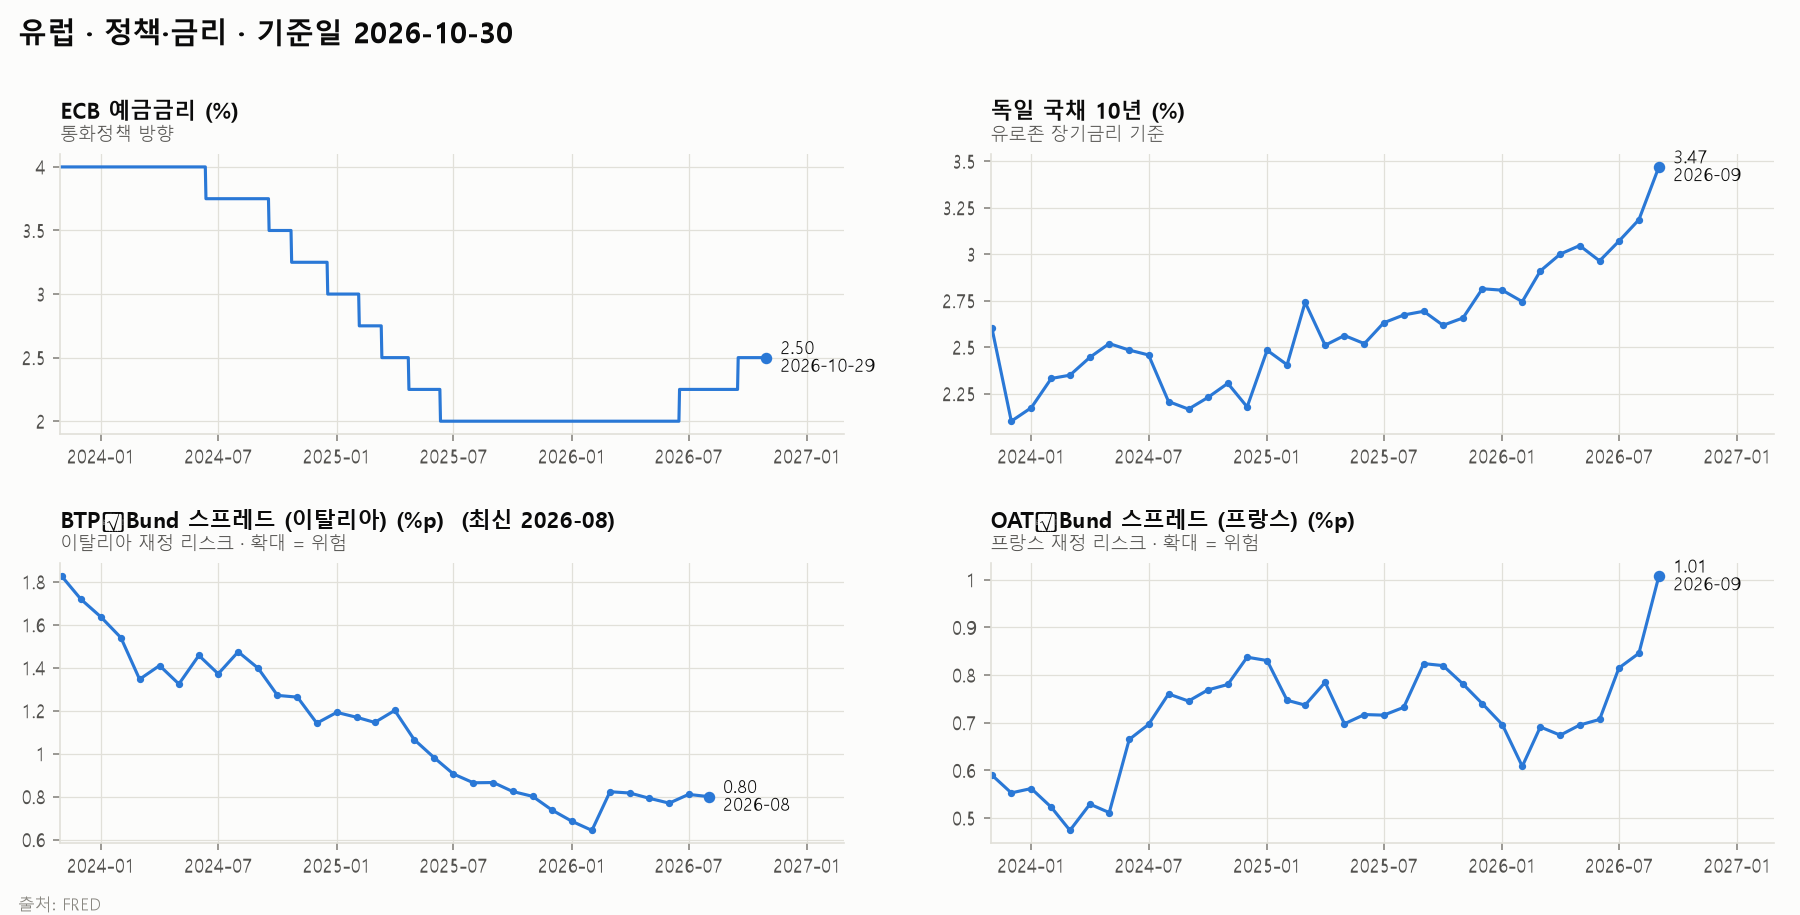
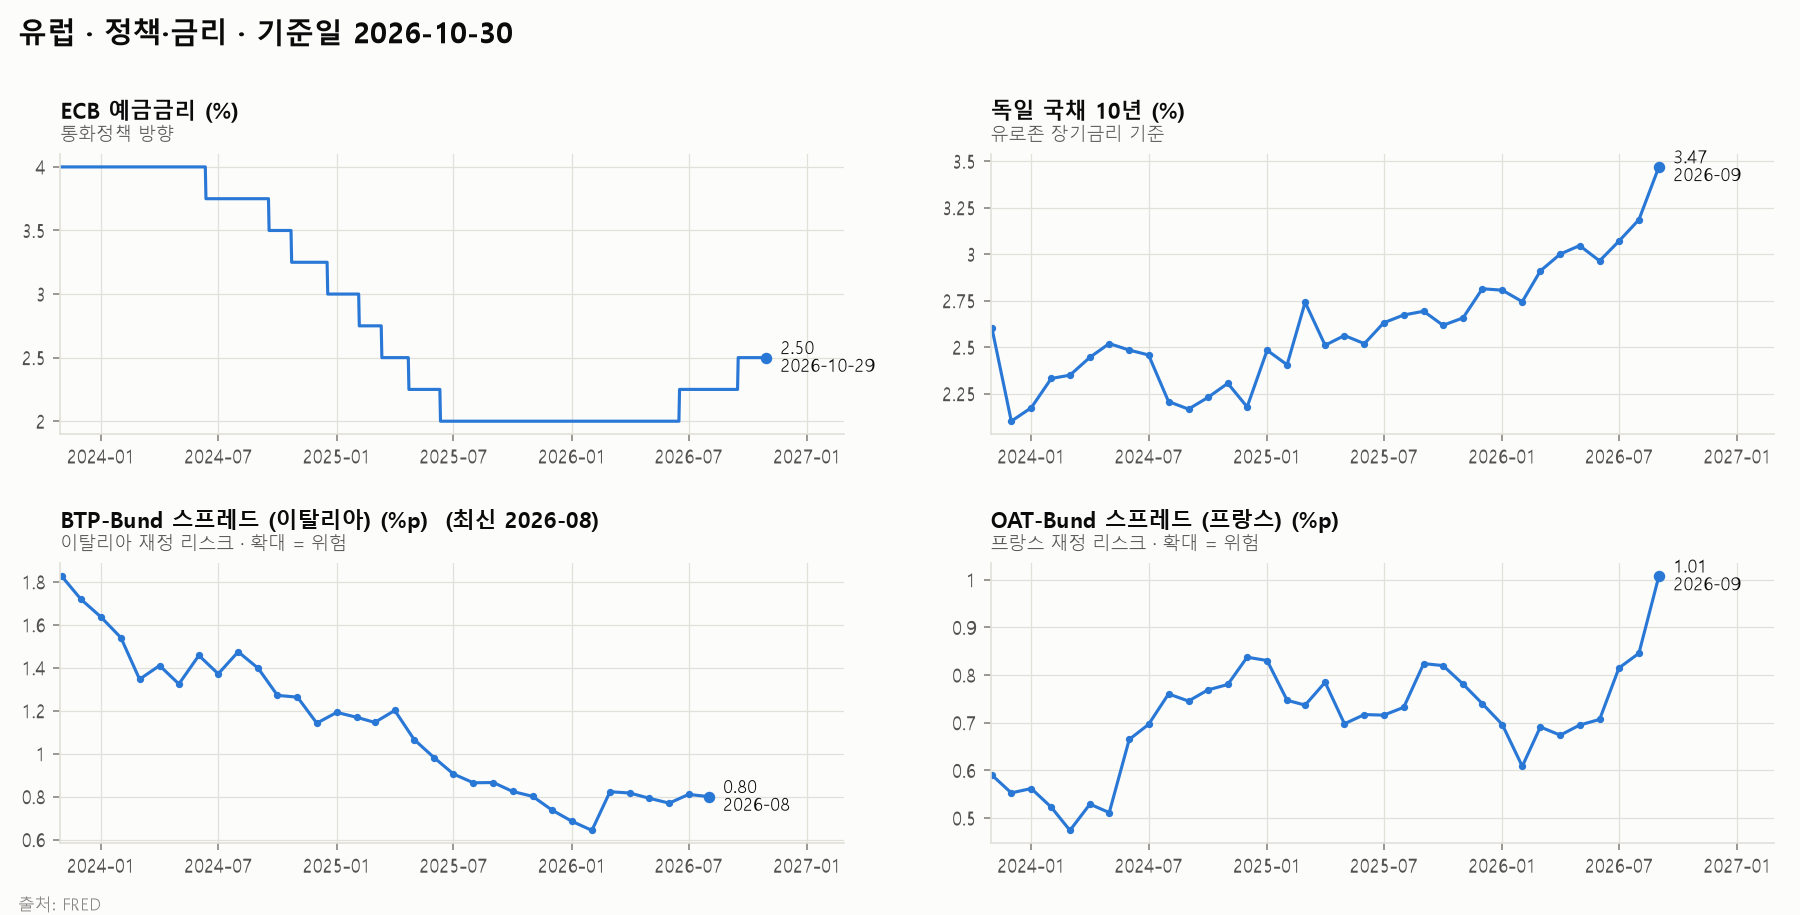
Connect ECOS, KRX and e-Stat sources and fill Korea/Japan indicators
- sources.py: read keys from .env; add ECOS, KRX (pykrx login) and e-Stat fetchers without exposing keys in errors
- indicators.md: Korea rates, CPI, exports, leading index, PBR, foreign flows and current account from ECOS/KRX; Japan core and Tokyo CPI from e-Stat; retire kr_3m and kr_10y3m
- build.py: keep correction sections on rebuild, treat same-day values as unconfirmed for all sources, fix minus glyph in chart titles
- reports 2026-10-30: rebuilt Korea and Japan at the original asof with correction notes
- README: add e-Stat credit

Changed region(s): [[0.0622, 0.5508, 0.3422, 0.5814], [0.56, 0.5508, 0.7467, 0.5814]]

diff --git a/scripts/sources.py b/scripts/sources.py
@@ -2,9 +2,12 @@
 
 지표는 날짜 인덱스의 Series, 지수 일봉은 open/high/low/close/volume 열의 DataFrame으로 돌려준다.
 """
+import contextlib
 import io
+import os
 import re
 import time
+from pathlib import Path
 
 import numpy as np
 import pandas as pd
@@ -12,6 +15,26 @@ import requests
 
 HEADERS = {"User-Agent": "Mozilla/5.0"}
 TIMEOUT = 30
+ROOT = Path(__file__).resolve().parent.parent
+
+
+def _load_env(path=ROOT / ".env"):
+    """.env의 KEY=VALUE를 환경 변수로 읽는다. pykrx는 import할 때 KRX_ID/KRX_PW를 읽으므로 먼저 실행한다."""
+    if path.exists():
+        for line in path.read_text(encoding="utf-8").splitlines():
+            key, sep, value = line.partition("=")
+            if sep and key.strip() and not key.strip().startswith("#"):
+                os.environ.setdefault(key.strip(), value.strip().strip("'\""))
+
+
+_load_env()
+
+
+def _secret(name):
+    value = os.environ.get(name)
+    if not value:
+        raise ValueError(f".env에 {name}가 없음")
+    return value
 
 
 def _get(url, headers=HEADERS, tries=3, **kw):
@@ -124,6 +147,62 @@ def hkma_hibor3m(start):
     return s[s.index >= start]
 
 
+# --- 키·계정이 필요한 출처 (.env) --------------------------------------------
+# 요청 URL에 키가 들어가므로, 요청 오류는 URL 없이 다시 올린다.
+
+def ecos(spec, start):
+    """한국은행 ECOS. spec: 통계표/주기/항목, 예: 817Y002/D/010200000"""
+    stat, cycle, item = spec.split("/")
+    fmt = {"D": "%Y%m%d", "M": "%Y%m"}[cycle]
+    end = pd.Timestamp.today()
+    url = (f"https://ecos.bok.or.kr/api/StatisticSearch/{_secret('ECOS_API_KEY')}/json/kr/1/100000/"
+           f"{stat}/{cycle}/{start:{fmt}}/{end:{fmt}}/{item}")
+    try:
+        data = _get(url, headers=None).json()
+    except requests.RequestException as e:
+        raise RuntimeError(f"ECOS 요청 실패 ({type(e).__name__})") from None
+    rows = data.get("StatisticSearch", {}).get("row")
+    if not rows:
+        raise ValueError(f"ECOS 응답 없음: {data.get('RESULT', {}).get('MESSAGE', '')}")
+    return _series([pd.to_datetime(r["TIME"], format=fmt) for r in rows], [r["DATA_VALUE"] for r in rows])
+
+
+def krx(name, start):
+    """KRX 정보데이터시스템 (pykrx, 회원 계정 로그인). name: kospi_pbr | kospi_foreign"""
+    _secret("KRX_ID"), _secret("KRX_PW")
+    end = pd.Timestamp.today()
+    with contextlib.redirect_stdout(io.StringIO()):  # pykrx는 로그인할 때 아이디를 출력한다
+        from pykrx import stock
+
+        if name == "kospi_pbr":
+            s = stock.get_index_fundamental(f"{start:%Y%m%d}", f"{end:%Y%m%d}", "1001")["PBR"]
+            s = s[s > 0]
+        elif name == "kospi_foreign":
+            s = stock.get_market_trading_value_by_date(f"{start:%Y%m%d}", f"{end:%Y%m%d}", "KOSPI")["외국인합계"]
+            s = s / 1e12  # 원 → 조 원
+        else:
+            raise ValueError(f"알 수 없는 KRX 항목: {name}")
+    return _series(s.index, s.to_numpy())
+
+
+def estat(spec, start):
+    """일본 e-Stat. spec: 통계표ID/품목(cat01)/지역(area)/표장항목(tab), 예: 0004052037/0161/00000/3"""
+    sid, cat01, area, tab = spec.split("/")
+    params = {"appId": _secret("ESTAT_APP_ID"), "statsDataId": sid, "cdCat01": cat01, "cdArea": area, "cdTab": tab}
+    try:
+        data = _get("https://api.e-stat.go.jp/rest/3.0/app/json/getStatsData", headers=None, params=params).json()
+    except requests.RequestException as e:
+        raise RuntimeError(f"e-Stat 요청 실패 ({type(e).__name__})") from None
+    body = data["GET_STATS_DATA"]
+    values = body.get("STATISTICAL_DATA", {}).get("DATA_INF", {}).get("VALUE", [])
+    if not values:
+        raise ValueError(f"e-Stat 응답 없음: {body['RESULT']['ERROR_MSG']}")
+    # 시간 코드 '2026001010' = 2026년 10월. 월 자리가 '00'이면 연간 값이라 뺀다
+    rows = [(v["@time"], v["$"]) for v in values if v["@time"][6:8] != "00"]
+    s = _series([pd.Timestamp(int(t[:4]), int(t[6:8]), 1) for t, _ in rows], [x for _, x in rows])
+    return s[s.index >= start]
+
+
 # --- AKShare (중국·홍콩) ----------------------------------------------------
 
 def _ak():
@@ -215,7 +294,7 @@ AK = {
 
 # --- 진입점 ----------------------------------------------------------------
 
-API_KINDS = ("fred", "yf", "oecd-cli", "oecd-cpi", "ecb", "mof-jp", "hkma", "ak")
+API_KINDS = ("fred", "yf", "oecd-cli", "oecd-cpi", "ecb", "mof-jp", "hkma", "ak", "ecos", "krx", "estat")
 
 
 def fetch(source, start, ohlcv=False):
@@ -240,4 +319,10 @@ def fetch(source, start, ohlcv=False):
         return mof_jp(arg, start)
     if kind == "hkma" and arg == "hibor3m":
         return hkma_hibor3m(start)
+    if kind == "ecos":
+        return ecos(arg, start)
+    if kind == "krx":
+        return krx(arg, start)
+    if kind == "estat":
+        return estat(arg, start)
     raise ValueError(f"알 수 없는 출처: {source}")

diff --git a/scripts/build.py b/scripts/build.py
@@ -34,7 +34,8 @@ LINE, UP, DOWN, MA5, MA20 = "#2a78d6", "#e34948", "#2a78d6", "#eda100", "#52514e
 
 STALE_DAYS = {"일": 7, "주": 21, "월": 75, "분기": 230, "연": 450}
 SOURCE_NAMES = {"fred": "FRED", "yf": "Yahoo Finance", "oecd-cli": "OECD", "oecd-cpi": "OECD", "ecb": "ECB",
-                "mof-jp": "일본 재무성", "hkma": "HKMA", "ak": "AKShare", "manual": "수동 입력"}
+                "mof-jp": "일본 재무성", "hkma": "HKMA", "ak": "AKShare", "ecos": "한국은행 ECOS", "krx": "KRX",
+                "estat": "e-Stat", "manual": "수동 입력"}
 
 plt.rcParams.update({
     "font.family": "Malgun Gothic", "axes.unicode_minus": False, "font.size": 9,
@@ -150,8 +151,8 @@ class Store:
         df = df[df.index <= self.pub]
         if close:
             df = df[df.index + close_offset(close) <= self.asof]
-        elif source.startswith("yf:"):
-            # 환율·선물 등은 하루 종일 거래되므로 발행일 당일 봉은 미확정으로 본다
+        else:
+            # 지표는 발행일 당일 날짜의 값을 미확정으로 본다 (환율·선물 장중 값, 장 마감 후 확정되는 금리 등)
             df = df[df.index < self.asof.normalize()]
         return df if ohlcv else df.iloc[:, 0].dropna()
 
@@ -257,8 +258,9 @@ class Store:
 # --- 차트 -----------------------------------------------------------------
 
 def _panel_header(ax, title, desc):
-    ax.set_title(title, loc="left", fontsize=10.5, fontweight="bold", color=INK, pad=17)
-    ax.text(0, 1.035, desc, transform=ax.transAxes, fontsize=8.5, color=INK2, va="bottom")
+    # 맑은 고딕 굵은체에는 수학 기호 '−'(U+2212) 글리프가 없어 일반 하이픈으로 바꾼다
+    ax.set_title(title.replace("−", "-"), loc="left", fontsize=10.5, fontweight="bold", color=INK, pad=17)
+    ax.text(0, 1.035, desc.replace("−", "-"), transform=ax.transAxes, fontsize=8.5, color=INK2, va="bottom")
 
 
 def _date_axis(ax, start, end):
@@ -438,6 +440,16 @@ def preserved_blocks(path):
     return blocks
 
 
+def correction_section(path):
+    """발행 후 덧붙인 '## 정정' 섹션. 다시 만들어도 그대로 붙인다."""
+    if path.exists():
+        text = path.read_text(encoding="utf-8")
+        i = text.find("\n## 정정\n")
+        if i >= 0:
+            return text[i:].strip("\n")
+    return None
+
+
 def previous_report(market, pub):
     found = []
     for p in REPORTS.glob(f"*/*/{market.order}-{market.code}.md"):
@@ -456,6 +468,7 @@ def build_market(store, market, pub):
     charts.mkdir(parents=True, exist_ok=True)
     path = out / f"{market.order}-{market.code}.md"
     blocks = preserved_blocks(path)
+    correction = correction_section(path)
     prev = previous_report(market, pub)
     period_start = prev[0] + pd.Timedelta(days=1) if prev else pub - pd.DateOffset(months=1)
     prev_rel = prev[1].relative_to(spec.ROOT).as_posix() if prev else "none"
@@ -498,6 +511,10 @@ def build_market(store, market, pub):
         lines.append("")
         if memo:
             lines += ["데이터 메모:", ""] + [f"- {m}" for m in memo] + [""]
+    if correction:
+        while lines and lines[-1] == "":
+            lines.pop()
+        lines += ["", correction]
     path.write_text("\n".join(lines).rstrip() + "\n", encoding="utf-8")
     return path, all_memo
 

diff --git a/reports/2026/2026-10-30/02-kr.md b/reports/2026/2026-10-30/02-kr.md
@@ -34,7 +34,7 @@ prev: none
 1. **[환율·수급] 10월 중순 외국인 대량 매도** — 10월 13일 코스피는 5.46% 내린 6,035.35에 마감했고 외국인은 4조5,128억 원을 순매도했다. SK하이닉스(−10.09%)와 삼성전자(−7.39%)가 급락했으며, 기사는 메모리 경쟁 심화 우려와 삼성전자 자사주 매입 종료를 원인으로 꼽았다 ([서울신문](https://www.seoul.co.kr/news/economy/securities/2026/10/13/20261013500225)). 해석: 반도체 이익 정점 논란 속에서 외국인 매도가 지수 하락을 주도했다.
 2. **[이익·밸류] SK하이닉스 3분기 실적과 주주환원** — SK하이닉스는 3분기 영업이익 83조3,338억 원을 발표하고 약 100조 원 규모의 주주환원 계획을 밝혔다. 10월 28일 코스피는 6.63% 오른 6,012.44로 10거래일 만에 6,000선을 되찾았고 외국인은 8,228억 원을 순매수했다 ([파이낸셜뉴스](https://www.fnnews.com/news/202610290701410620)). 해석: 실적이 '메모리 이익 정점론'을 일부 반박하면서 외국인 매도가 멈췄다.
 3. **[기타] 발행 시점 장중 급락** — 10월 30일 오전 10시 4분 코스피 시장에 매도 사이드카가 발동됐고, 10시 13분 기준 코스피는 5.01% 내린 5,639.95였다. 전날 알파벳이 잉여현금흐름 악화로 12.6% 떨어지는 등 미국 기술주가 급락한 영향이며, 삼성전자는 3분기 영업이익 107조4,405억 원 발표에도 주주환원 실망으로 전날 4.13% 내렸다 ([뉴스핌](https://www.newspim.com/news/view/20261030000389)). 해석: 미국 AI 투자 수익성 우려가 반도체 비중이 큰 한국 증시에 가장 크게 전이되고 있다. 이 하락은 지수 현황 표(10/29 종가)에 반영되지 않았다.
-4. **[경기] 수출 호조와 원화 강세** — OECD 집계 한국 수출액(원화 기준)은 8월 전년비 +69.5%였고, 원/달러 환율은 1,340원(10/29)으로 3개월 전 1,453원보다 크게 낮아졌다 (FRED·Yahoo Finance, 2.1·2.6절). 해석: 수출이 이익 기반을 받치고 원화 강세는 외국인 환차익 측면에서 우호적이지만, 이번 달 주가는 이런 기초 여건보다 AI 업황 기대 변화에 더 크게 흔들렸다.
+4. **[경기] 수출 호조와 원화 강세** — 관세청 통관 기준 수출액(달러)은 8월 전년비 +68.7%였고, 원/달러 환율은 1,340원(10/29)으로 3개월 전 1,453원보다 크게 낮아졌다 (한국은행 ECOS·Yahoo Finance, 2.1·2.6절). 해석: 수출이 이익 기반을 받치고 원화 강세는 외국인 환차익 측면에서 우호적이지만, 이번 달 주가는 이런 기초 여건보다 AI 업황 기대 변화에 더 크게 흔들렸다.
 <!-- factors:end -->
 
 ## 2. 지표 (최근 3년)
@@ -45,15 +45,16 @@ prev: none
 
 | 지표 | 최신값 | 기준 시점 | 3개월 전 | 1년 전 |
 |---|---|---|---|---|
-| 수출액 증가율 (%, 전년비) | 69.54 | 2026-08 | 62.85 | 5.16 |
+| 수출액 증가율 (%, 전년비) | 68.70 | 2026-08 | 52.90 | 1.07 |
 | 반도체 수출 증가율 (%, 전년비) | — | — | — | — |
-| OECD 경기선행지수 (한국) (pt) | 102.5 | 2026-09 | 102.6 | 99.66 |
+| 선행지수 순환변동치 (pt) | 104.2 | 2026-08 | 102.9 | 99.80 |
 | DRAM 고정거래가격 (PC용 범용) (달러) | — | — | — | — |
 
 데이터 메모:
 
 - 수출액 증가율: 최신 데이터가 2026-08로 지연
 - 반도체 수출 증가율: 데이터 없음 (수동 입력 전)
+- 선행지수 순환변동치: 최신 데이터가 2026-08로 지연
 - DRAM 고정거래가격 (PC용 범용): 데이터 없음 (수동 입력 전)
 
 ### 2.2 물가
@@ -63,7 +64,7 @@ prev: none
 | 지표 | 최신값 | 기준 시점 | 3개월 전 | 1년 전 |
 |---|---|---|---|---|
 | 소비자물가 (%, 전년비) | 2.88 | 2026-09 | 3.16 | 2.10 |
-| 근원물가 (식료품·에너지 제외) (%, 전년비) | 2.80 | 2026-09 | 2.48 | 1.96 |
+| 근원물가 (농산물·석유류 제외) (%, 전년비) | 2.73 | 2026-09 | 2.44 | 2.38 |
 
 ### 2.3 정책·금리
 
@@ -71,14 +72,10 @@ prev: none
 
 | 지표 | 최신값 | 기준 시점 | 3개월 전 | 1년 전 |
 |---|---|---|---|---|
-| 한은 기준금리 (%) | — | — | — | — |
-| 단기금리 (3개월) (%) | 3.17 | 2026-09 | 2.91 | 2.56 |
-| 국고채 10년 (%) | 4.45 | 2026-09 | 4.18 | 2.85 |
-| 장단기 금리차 (10Y−3M) (%p) | 1.28 | 2026-09 | 1.27 | 0.29 |
-
-데이터 메모:
-
-- 한은 기준금리: 데이터 없음 (API 키 필요 (ECOS))
+| 한은 기준금리 (%) | 3.00 | 2026-10-30 | 2.75 | 2.50 |
+| 국고채 3년 (%) | 3.77 | 2026-10-29 | 3.80 | 2.68 |
+| 국고채 10년 (%) | 4.08 | 2026-10-29 | 4.26 | 2.98 |
+| 장단기 금리차 (10Y−3Y) (%p) | 0.32 | 2026-10-29 | 0.46 | 0.31 |
 
 ### 2.4 유동성·신용
 
@@ -86,12 +83,11 @@ prev: none
 
 | 지표 | 최신값 | 기준 시점 | 3개월 전 | 1년 전 |
 |---|---|---|---|---|
-| 회사채 스프레드 (AA- 3년) (%p) | — | — | — | — |
+| 회사채 스프레드 (AA- 3년) (%p) | 0.68 | 2026-10-29 | 0.71 | 0.41 |
 | 신용융자 잔고 (조 원) | — | — | — | — |
 
 데이터 메모:
 
-- 회사채 스프레드 (AA- 3년): 데이터 없음 (API 키 필요 (ECOS))
 - 신용융자 잔고: 데이터 없음 (수동 입력 전)
 
 ### 2.5 이익·밸류
@@ -102,13 +98,12 @@ prev: none
 |---|---|---|---|---|
 | KOSPI 12개월 선행 EPS (pt) | — | — | — | — |
 | KOSPI 선행 PER (배) | — | — | — | — |
-| KOSPI PBR (배) | — | — | — | — |
+| KOSPI PBR (배) | 1.48 | 2026-10-29 | 1.62 | 1.37 |
 
 데이터 메모:
 
 - KOSPI 12개월 선행 EPS: 데이터 없음 (수동 입력 전)
 - KOSPI 선행 PER: 데이터 없음 (수동 입력 전 (KOSPI 12개월 선행 EPS))
-- KOSPI PBR: 데이터 없음 (KRX 로그인 계정 필요)
 
 ### 2.6 환율·수급
 
@@ -117,10 +112,17 @@ prev: none
 | 지표 | 최신값 | 기준 시점 | 3개월 전 | 1년 전 |
 |---|---|---|---|---|
 | 원/달러 환율 (원) | 1,340 | 2026-10-29 | 1,453 | 1,426 |
-| 외국인 순매수 (KOSPI, 누적) (조 원) | — | — | — | — |
-| 경상수지 (억 달러) | — | — | — | — |
+| 외국인 순매수 (KOSPI, 누적) (조 원) | -204.7 | 2026-10-29 | -164.5 | 11.3 |
+| 경상수지 (억 달러) | 461.1 | 2026-08 | 386.1 | 98.5 |
 
 데이터 메모:
 
-- 외국인 순매수 (KOSPI, 누적): 데이터 없음 (KRX 로그인 계정 필요)
-- 경상수지: 데이터 없음 (API 키 필요 (ECOS))
+- 경상수지: 최신 데이터가 2026-08로 지연
+
+## 정정
+
+- 2026-10-30 (발행 후): 한국은행 ECOS와 KRX를 연결해 지표를 보완했다. 발행 시점(asof 2026-10-30 12:10 KST)과 지수 수치는 그대로다.
+  - 새로 채운 지표: 한은 기준금리, 회사채 스프레드(AA- 3년), KOSPI PBR, 외국인 순매수(KOSPI 누적), 경상수지
+  - 출처를 바꾼 지표: 수출액 증가율(OECD 원화 기준 → 관세청 통관 달러 기준), 선행지수(OECD 경기선행지수 → 통계청 선행지수 순환변동치), 소비자물가·근원물가(OECD 집계 → 통계청. 근원물가 정의는 식료품·에너지 제외 → 농산물·석유류 제외), 국고채 10년(OECD 월평균 → 일간)
+  - 교체한 지표: 단기금리(3개월) → 국고채 3년, 장단기 금리차(10Y−3M) → (10Y−3Y)
+  - 주요 요인 4번의 수출 수치를 새 출처 기준으로 고쳤다 (+69.5% → +68.7%).

diff --git a/reports/2026/2026-10-30/04-jp.md b/reports/2026/2026-10-30/04-jp.md
@@ -57,17 +57,15 @@ prev: none
 
 | 지표 | 최신값 | 기준 시점 | 3개월 전 | 1년 전 |
 |---|---|---|---|---|
-| 근원 CPI (신선식품 제외) (%, 전년비) | — | — | — | — |
-| 도쿄 근원 CPI (%, 전년비) | — | — | — | — |
+| 근원 CPI (신선식품 제외) (%, 전년비) | 2.10 | 2026-09 | 1.60 | 2.90 |
+| 도쿄 근원 CPI (%, 전년비) | 2.60 | 2026-10 | 1.70 | 2.80 |
 | 춘투 임금 인상률 (렌고 최종 집계) (%) | — | — | — | — |
 | 실질임금 (%, 전년비) | — | — | — | — |
 
 데이터 메모:
 
-- 근원 CPI (신선식품 제외): 데이터 없음 (API 키 필요 (e-Stat))
-- 도쿄 근원 CPI: 데이터 없음 (API 키 필요 (e-Stat))
 - 춘투 임금 인상률 (렌고 최종 집계): 데이터 없음 (수동 입력 전)
-- 실질임금: 데이터 없음 (API 키 필요 (e-Stat))
+- 실질임금: 데이터 없음 (수동 입력 전)
 
 ### 2.3 정책·금리
 
@@ -122,3 +120,7 @@ prev: none
 데이터 메모:
 
 - 해외투자자 순매수 (누적): 데이터 없음 (수동 입력 전)
+
+## 정정
+
+- 2026-10-30 (발행 후): 일본 e-Stat을 연결해 근원 CPI(신선식품 제외)와 도쿄 근원 CPI를 채웠다. 발행 시점(asof 2026-10-30 12:10 KST)과 지수 수치는 그대로다. 실질임금은 e-Stat API에 최신 시계열이 없어 수동 입력 대상으로 바꿨다.

diff --git a/CLAUDE.md b/CLAUDE.md
@@ -178,7 +178,9 @@ market-journal/
   - 선행 PER만 공개된 경우 같은 날 지수 종가 ÷ PER로 EPS를 환산해 입력하고, `note`에 `PER x.x배에서 환산`이라고 적는다.
   - **값을 찾지 못하면 비워 둔다. 추정이나 기억으로 채우지 않는다.**
 - **계산 지표(calc):** 입력 지표의 주기가 다르면 직전 값을 이어서 쓴다 (forward fill).
-- **API 키:** 지금은 키가 필요 없는 출처만 쓴다. 키를 쓰게 되면 `.env`에 두고 (예: `ECOS_API_KEY`) 저장소에 올리지 않는다.
+- **API 키:** 한국은행 ECOS(`ECOS_API_KEY`), KRX 정보데이터시스템(`KRX_ID`, `KRX_PW`), 일본 e-Stat(`ESTAT_APP_ID`)은 `.env`에 둔다. `.env`는 저장소에 올리지 않고, 키 값을 화면·로그·보고서에 출력하지 않는다.
+  - KRX가 주기적으로 비밀번호 변경을 요구하면 로그인이 실패한다. krx.co.kr에서 비밀번호를 바꾼 뒤 `.env`를 고친다.
+  - 공개 저장소에서 e-Stat 데이터를 쓰므로 README의 e-Stat 크레딧 문구를 유지한다.
 - **실행 환경:** 프로젝트의 `.venv` 가상환경을 쓴다. 처음 설치는 `python -m venv .venv` 후 `.venv/Scripts/python -m pip install -r requirements.txt`.
 
 ## 작성 공통 규칙

diff --git a/README.md b/README.md
@@ -30,6 +30,12 @@ python -m venv .venv
 .venv/Scripts/python scripts/build.py --date 2026-10-30
 ```
 
+한국은행 ECOS, KRX, 일본 e-Stat 데이터를 받으려면 프로젝트 폴더의 `.env`에 키와 계정이 필요합니다 (`ECOS_API_KEY`, `KRX_ID`, `KRX_PW`, `ESTAT_APP_ID`). `.env`는 저장소에 올리지 않습니다.
+
 ## 데이터 출처
 
-FRED, Yahoo Finance, OECD, ECB, 일본 재무성, HKMA, AKShare. 모두 API 키 없이 받을 수 있는 경로만 씁니다.
+- 키 없이: FRED, Yahoo Finance, OECD, ECB, 일본 재무성, HKMA, AKShare
+- 키·계정 필요: 한국은행 ECOS, KRX 정보데이터시스템, 일본 e-Stat
+
+このサービスは、政府統計総合窓口(e-Stat)のAPI機能を使用していますが、サービスの内容は国によって保証されたものではありません。
+(이 서비스는 일본 정부통계 종합창구(e-Stat)의 API 기능을 사용하지만, 서비스 내용은 일본 정부가 보증하지 않습니다.)
